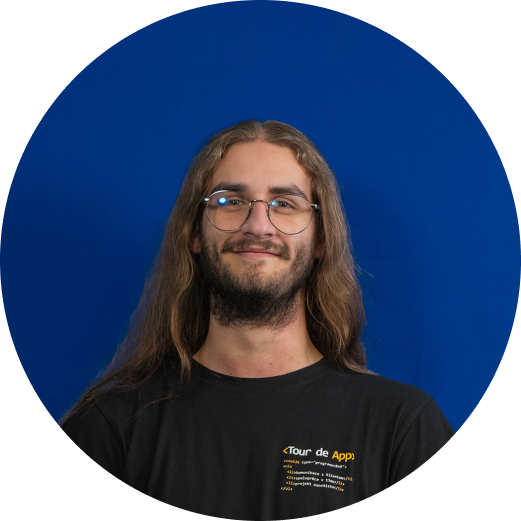
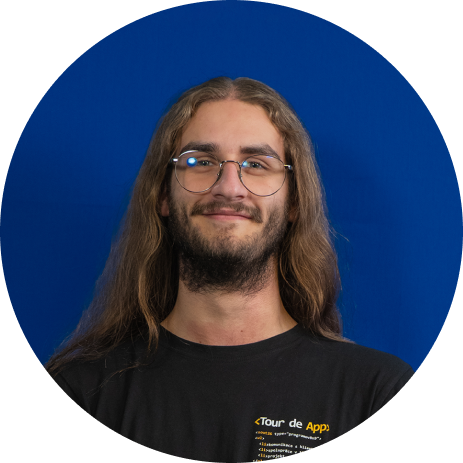
lists

diff --git a/css/nas-tym.css b/css/nas-tym.css
@@ -30,7 +30,6 @@ h3 {
 h1 {
   font-size: 3rem;
   margin-top: 1.5em;
-  margin-block: 2em 0.25em;
 }
 
 h2 {
@@ -123,8 +122,14 @@ p {
   }
 
   .photo img {
-    max-width: 80%;
+    max-width: 65%;
     height: auto;
+  }
+
+  .lists {
+    width: 80%;
+    margin: auto;
+    gap: 15px;
   }
 
   h2 {
